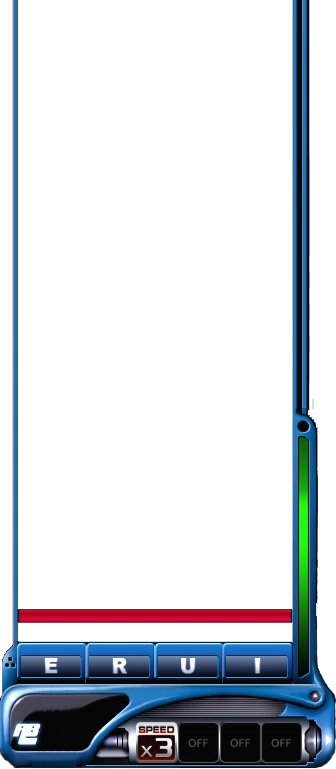
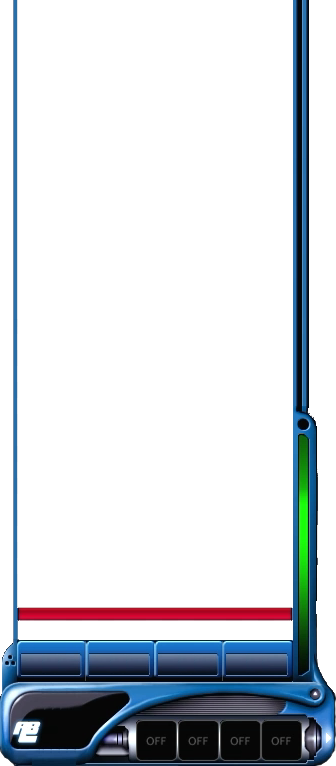
UpdateNote
draw note 4line
draw default bpm line

to do

sync notes
apply speed to note with sync
default bpm line do not match with note
(think desync error occur in positioning and pos update process)

diff --git a/Project/NoteConf.py b/Project/NoteConf.py
@@ -8,13 +8,17 @@ class Note:
 
     _m_SongDuration = None
     _m_SongBPM = 0
+
     _m_PlayingTime = 0.0
     _m_Updateidx = 0
+    _m_speed = 1
+    _m_keynum = 4
 
     _m_CallNote = 0
 
     def __init__(self, Songname, SongDuration, SongBPM):
         self._notesync(Songname)
+        self._m_speed = 4
         self._m_SongDuration = int(SongDuration)
         self._m_SongBPM = int(SongBPM)
         self._m_CallNote = round(self._m_SongBPM / 60 * 5)
@@ -33,37 +37,42 @@ class Note:
 
         f.close()
 
-        Mbox("note test", "notename \n%s" % Songname, 0)
+        print("notename \n%s" % Songname)
 
         return self._m_Notelist #note Loading end -> return to song conf
+
+    def _NotePosition(self, Acctime):
+        self._m_PlayingTime += Acctime
+
+        if self._m_PlayingTime > 5 * self._m_Updateidx:
+            for keyidx in range(self._m_keynum):
+                for idx in range(self._m_CallNote):
+                    if self._m_Notelist[keyidx][idx + self._m_CallNote * self._m_Updateidx] != 0:
+                        self._m_Notelist[keyidx][idx + self._m_CallNote * self._m_Updateidx] = 760 + 40 * idx * self._m_speed
+            self._m_Updateidx += 1
+        pass
 
 
     def UpdateNote(self, Acctime):
 
-        self._m_PlayingTime += Acctime
+        self._NotePosition(Acctime)
 
-        if self._m_PlayingTime > 5 * self._m_Updateidx:
-            for idx in range(self._m_CallNote):
-                if self._m_Notelist[0][idx + self._m_CallNote * self._m_Updateidx] == 1:
-                    self._m_Notelist[0][idx + self._m_CallNote * self._m_Updateidx] = 760 + 60 * idx
+        for keyidx in range(self._m_keynum):
+            for tmp in range(self._m_CallNote * self._m_Updateidx):         #while tmp < self._m_CallNote * self._m_Updateidx:
+                if self._m_Notelist[keyidx][tmp] != 0:
+                    self._m_Notelist[keyidx][tmp] -= self._m_SongBPM / 60 * self._m_speed * 2 / 3
+                    print(self._m_Notelist[keyidx][tmp] , tmp)
+                tmp += 1
 
-            self._m_Updateidx += 1
-
-        tmp = 0
-
-        while tmp < self._m_CallNote * self._m_Updateidx:
-            if self._m_Notelist[0][tmp] != 0:
-                self._m_Notelist[0][tmp] -= self._m_SongBPM / 60 + 10
-                print(self._m_Notelist[0][tmp] , tmp)
-            tmp += 1
-
-        for idx in range(len(self._m_Notelist[0])):
-            if int(self._m_Notelist[0][idx]) < 0:
-                self._m_Notelist[0][idx] = 0
-
-
-
-
+            for idx in range(len(self._m_Notelist[keyidx])):
+                if int(self._m_Notelist[keyidx][idx]) < 0:
+                    self._m_Notelist[keyidx][idx] = 0
 
         print(self._m_PlayingTime)
+        pass
+
+    def notejudgechk(self):
+        if self._m_Notelist[0]:
+            pass
+
         pass

diff --git a/Project/PlayScene.py b/Project/PlayScene.py
@@ -7,7 +7,10 @@ class PlayScene:
     _m_Musicdata = None
     _m_background_image = None
     _m_gear_image = None
-    _m_note_image = None
+    _m_note1_image = None
+    _m_note2_image = None
+
+    _m_line = None
 
     _m_Notedata = None
 
@@ -17,7 +20,11 @@ class PlayScene:
 
         self._m_background_image = load_image('Resources\\Image\\Background.png')
         self._m_gear_image = load_image('Resources\\Image\\gear prot.png')
-        self._m_note_image = load_image('Resources\\Image\\note p1.png')
+        self._m_note1_image = load_image('Resources\\Image\\note p1.png')
+        self._m_note2_image = load_image('Resources\\Image\\note p2.png')
+        self._m_line = load_image('Resources\\Image\\line.png')
+
+        self.liney = 760
         pass
 
     def sceneupdate(self):  # update play scene -> time update
@@ -27,9 +34,20 @@ class PlayScene:
         self._m_background_image.draw(400, 380)
         self._m_gear_image.draw(400, 380)
 
-        for idx in range(len(self._m_Notedata[0])):
-            if self._m_Notedata[0][idx] != '0' and int(self._m_Notedata[0][idx]) > 60:
-                self._m_note_image.draw(283, int(self._m_Notedata[0][idx]))
+        for keyidx in range(4):
+            for idx in range(len(self._m_Notedata[keyidx])):
+                if self._m_Notedata[keyidx][idx] != '0' and int(self._m_Notedata[keyidx][idx]) > 127:
+                    if keyidx % 2 == 0:
+                        self._m_note1_image.draw(283 + 69 * keyidx, int(self._m_Notedata[keyidx][idx]))
+                    elif keyidx % 2 == 1:
+                        self._m_note2_image.draw(283 + 69 * keyidx, int(self._m_Notedata[keyidx][idx]))
+
+        self.liney += 12 * 2/3
+        if self.liney > 640:
+            self.liney = 0
+        #self.liney - (self._m_Musicdata._m_CurrentSongBPM / 60 * self._m_Musicdata._m_CurrentNote._m_speed)
+        self._m_line.draw(400, 760 - self.liney)
+
 
         update_canvas()
         pass

diff --git a/Project/MainFramework.py b/Project/MainFramework.py
@@ -41,6 +41,13 @@ class Framework:
                     self._m_CurrentScene = 'Menu'
                     self._m_Music.MusicStop()
                     self._m_Music = None
+                elif event.key == SDLK_e and self._m_runMusic:
+                    self._m_Music._m_CurrentNote.notejudgechk()
+                elif event.key == SDLK_2 and self._m_runMusic:
+                    self._m_Music._m_CurrentNote._m_speed = 2
+                elif event.key == SDLK_4 and self._m_runMusic:
+                    self._m_Music._m_CurrentNote._m_speed = 4
+
 
 
     def _create(self):

diff --git a/Project/MusicConf.py b/Project/MusicConf.py
@@ -16,7 +16,7 @@ class Music:
 
     def __init__(self,Songname):
         if searchfile(Songname):
-            Mbox("Find Song", "%s"%Songname, 0)
+            print("Find song : %s" % Songname)
 
             music_f=open('Resources\\Song\\song list.txt')
             for line in music_f:
@@ -35,7 +35,7 @@ class Music:
             self._loadsong()
 
 
-            Mbox("Music Conf", "init music conf \n%s" % Songname,0)
+            print("init music conf \n%s" % Songname)
 
 
     def _loadsong(self):
